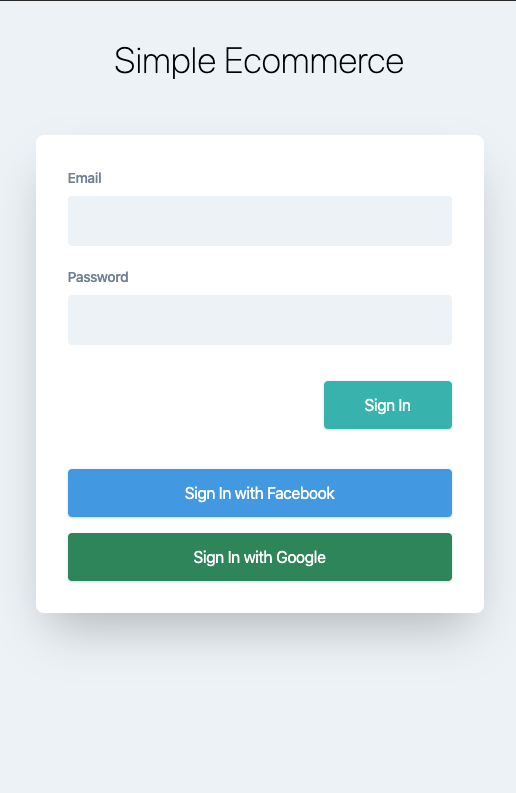
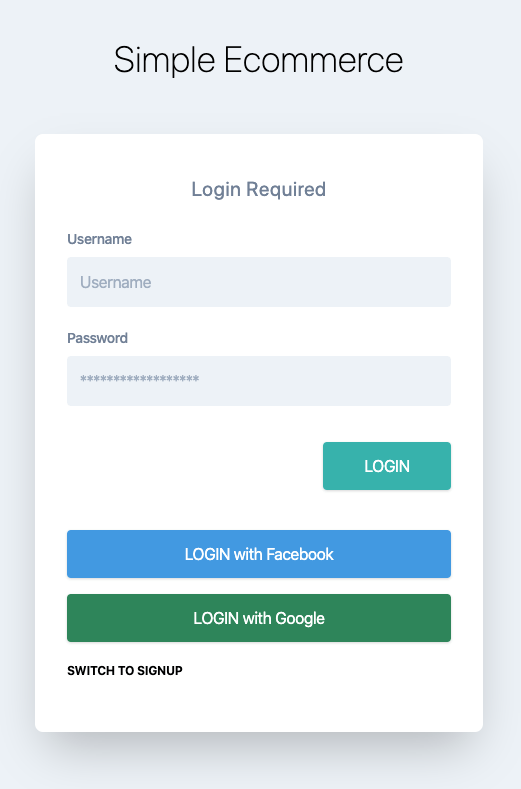
implement auth

diff --git a/src/users/components/LoginForm.js b/src/users/components/LoginForm.js
@@ -1,28 +1,146 @@
-import React from 'react';
+import React, { useState, useContext } from 'react';
+import {
+  VALIDATOR_MINLENGTH,
+  VALIDATOR_REQUIRE
+} from '../../shared/util/validators';
+import Input from '../../shared/components/FormElements/Input';
+import ErrorModal from '../../shared/components/UIElements/ErrorModal';
+import LoadingSpinner from '../../shared/components/UIElements/LoadingSpinner';
+import { useForm } from '../../shared/hooks/form-hook';
+import { useHttpClient } from '../../shared/hooks/http-hook';
+import { AuthContext } from '../../shared/context/auth-context';
+
+const DUMMY_USER = {
+  id: 'anas1234',
+  password: 'anas1234'
+}
 
 const LoginForm = () => {
+  const auth = useContext(AuthContext);
+  const [isLoginMode, setIsLoginMode] = useState(true);
+  const { isLoading, error, clearError } = useHttpClient();
+
+  const [formState, inputHandler, setFormData] = useForm({
+      username: {
+        value: '',
+        isValid: false
+      },
+      password: {
+        value: '',
+        isValid: false
+      }
+    },
+    false
+  );
+
+  const switchModeHandler = () => {
+    if (!isLoginMode) {
+      setFormData({
+          ...formState.inputs,
+          name: undefined
+        },
+        formState.inputs.username.isValid && formState.inputs.password.isValid
+      );
+    } else {
+      setFormData({
+          ...formState.inputs,
+          name: {
+            value: '',
+            isValid: false
+          }
+        },
+        false
+      );
+    }
+    setIsLoginMode(prevMode => !prevMode);
+  };
+
+  const authSubmitHandler = async event => {
+    event.preventDefault();
+
+    if (isLoginMode) {
+      try {
+        auth.login(DUMMY_USER.id);
+      } catch (err) {}
+    } else {
+      try {
+        auth.login(DUMMY_USER.id);
+      } catch (err) {}
+    }
+  };
+
   return (
-    <div className="bg-white rounded-lg overflow-hidden shadow-2xl">
+    <React.Fragment>
+      <ErrorModal error={error} onClear={clearError} />
+      <div className="bg-white rounded-lg overflow-hidden shadow-2xl">
+        {isLoading && <LoadingSpinner asOverlay />}
         <div className="p-8">
-            <form method="POST" className="" action="#" onSubmit="return false;">
+            <form method="POST" onSubmit={authSubmitHandler}>
+              <h2 className="py-2 mb-4 text-center text-gray-600 text-xl">Login Required</h2>
+              {!isLoginMode && (
                 <div className="mb-5">
-                    <label htmlFor="email" className="block mb-2 text-sm font-medium text-gray-600">Email</label>
-
-                    <input type="text" name="email" className="block w-full p-3 rounded bg-gray-200 border border-transparent focus:outline-none" />
+                  <label htmlFor="email" className="block mb-2 text-sm font-medium text-gray-600">Your Name</label>
+                  <Input
+                    element="input"
+                    id="name"
+                    type="text"
+                    label="Your Name"
+                    placeholder="Name"
+                    className="block w-full p-3 rounded bg-gray-200 border border-transparent focus:outline-none"
+                    validators={[VALIDATOR_REQUIRE()]}
+                    errorText="Please enter a name."
+                    onInput={inputHandler}
+                  />
                 </div>
+              )}
+              <div className="mb-5">
+                <label htmlFor="email" className="block mb-2 text-sm font-medium text-gray-600">Username</label>
+                <Input
+                  element="input"
+                  id="username"
+                  type="username"
+                  label="Username"
+                  placeholder="Username"
+                  className="block w-full p-3 rounded bg-gray-200 border border-transparent focus:outline-none"
+                  validators={[VALIDATOR_MINLENGTH(5)]}
+                  errorText="Please enter a valid Username, at least 5 characters."
+                  onInput={inputHandler}
+                />
+              </div>
 
-                <div className="mb-5">
-                    <label htmlFor="password" className="block mb-2 text-sm font-medium text-gray-600">Password</label>
+              <div className="mb-5">
+                <label htmlFor="password" className="block mb-2 text-sm font-medium text-gray-600">Password</label>
 
-                    <input type="text" name="password" className="block w-full p-3 rounded bg-gray-200 border border-transparent focus:outline-none" />
-                </div>
+                <Input
+                  element="input"
+                  id="password"
+                  type="password"
+                  label="Password"
+                  placeholder="******************"
+                  className="block w-full p-3 rounded bg-gray-200 border border-transparent focus:outline-none"
+                  validators={[VALIDATOR_MINLENGTH(6)]}
+                  errorText="Please enter a valid password, at least 5 characters."
+                  onInput={inputHandler}
+                />
+              </div>
 
-                <button className="w-1/3 float-right p-3 mt-4 bg-teal-500 text-white rounded shadow my-6">Sign In</button>
-                <button className="w-full p-3 mt-4 bg-blue-500 text-white rounded shadow">Sign In with Facebook</button>
-                <button className="w-full p-3 mt-4 bg-green-700 text-white rounded shadow">Sign In with Google</button>
+              <button
+                className="w-1/3 float-right p-3 mt-4 bg-teal-500 text-white rounded shadow my-6"
+                disabled={!formState.isValid}
+              >{isLoginMode ? 'LOGIN' : 'SIGNUP'}</button>
+              <button className="w-full p-3 mt-4 bg-blue-500 text-white rounded shadow">{isLoginMode ? 'LOGIN' : 'SIGNUP'} with Facebook</button>
+              <button className="w-full p-3 mt-4 bg-green-700 text-white rounded shadow">{isLoginMode ? 'LOGIN' : 'SIGNUP'} with Google</button>
             </form>
+            <button
+              className="font-bold my-3 py-2 text-xs"
+              onClick={switchModeHandler}>
+              SWITCH TO {isLoginMode ? 'SIGNUP' : 'LOGIN'}
+            </button>
         </div>
-    </div>
+      </div>
+    </React.Fragment>
+
+
   )
 }
 

diff --git a/src/App.js b/src/App.js
@@ -1,38 +1,78 @@
-import React from 'react';
+import React, { useState, useCallback } from 'react';
 import { BrowserRouter as Router, Route, Redirect, Switch } from 'react-router-dom';
 
-import Home from './products/pages/Home';
 import Products from './products/pages/Products';
 import Product from './products/pages/Product';
 import Profile from './users/pages/Profile.js';
+import Auth from './users/pages/Auth';
+import { AuthContext } from './shared/context/auth-context';
 import Login from './users/pages/Login.js';
 
 
 const App = () => {
+  const [isLoggedIn, setIsLoggedIn] = useState(false);
+  const [userId, setUserId] = useState(false);
+
+
+  const login = useCallback(uid => {
+    setIsLoggedIn(true);
+    setUserId(uid);
+  }, []);
+
+  const logout = useCallback(() => {
+    setIsLoggedIn(false);
+    setUserId(null);
+  }, []);
+
+  let routes;
+
+  if (isLoggedIn) {
+    routes = (
+      <Router>
+        <Switch>
+          <Route path="/" exact>
+            <Products/>
+          </Route>
+          <Route path="/product/:productId" exact>
+            <Product/>
+          </Route>
+          <Route path="/profile" exact>
+            <Profile/>
+          </Route>
+          <Route path="/profile/add/:productId" exact>
+            <Profile/>
+          </Route>
+          <Redirect to ="/" />
+        </Switch>
+      </Router>
+    );
+  } else {
+    routes = (
+      <Router>
+        <Switch>
+          <Route path="/product/:productId" exact>
+            <Product/>
+          </Route>
+          <Route path="/login" exact>
+            <Login/>
+          </Route>
+          <Route path="/auth" exact>
+            <Auth/>
+          </Route>
+          <Redirect to ="/auth" />
+        </Switch>
+      </Router>
+    )
+  }
+
   return (
+    <AuthContext.Provider
+      value={{ isLoggedIn: isLoggedIn, login: login, logout: logout, userId: userId }}
+    >
     <Router>
-      <Switch>
-        <Route path="/" exact>
-          <Home/>
-        </Route>
-        <Route path="/products" exact>
-          <Products/>
-        </Route>
-        <Route path="/product/:productId" exact>
-          <Product/>
-        </Route>
-        <Route path="/login" exact>
-          <Login/>
-        </Route>
-        <Route path="/profile" exact>
-          <Profile/>
-        </Route>
-        <Route path="/profile/add/:productId" exact>
-          <Profile/>
-        </Route>
-        <Redirect to ="/" />
-      </Switch>
+      {routes}
     </Router>
+    </AuthContext.Provider>
   )
 }
 

diff --git a/src/shared/components/Navigation/Navbar.js b/src/shared/components/Navigation/Navbar.js
@@ -1,6 +1,7 @@
-import React, { useState } from 'react';
+import React, { useState, useContext } from 'react';
 import { useHistory } from "react-router-dom";
 import { library } from "@fortawesome/fontawesome-svg-core";
+import { AuthContext } from '../../context/auth-context';
 import {
   faHeart,
   faAngleLeft
@@ -16,7 +17,9 @@ library.add(
 );
 
 const Navbar = () => {
+  const auth = useContext(AuthContext);
   let history = useHistory();
+  console.log(auth.isLoggedIn)
   const [mockData, setMockData] = useState(jsonData);
   const [isDrawerOpen, setDrawerIsOpen] = useState(false)
 
@@ -52,6 +55,9 @@ const Navbar = () => {
             placeholder="Search by name..."
             onChange={searchData && openDrawerHandler}
           />
+          <button className="m-auto px-1 text-right text-sm w-1/6" onClick={auth.logout}>
+            Log Out
+          </button>
         </div>
       </nav>
       <PageDrawer show={isDrawerOpen} items={mockData} />

diff --git a/src/users/pages/Auth.js b/src/users/pages/Auth.js
@@ -1,0 +1,16 @@
+import React from 'react';
+import LoginForm from '../components/LoginForm';
+
+
+const Auth = () => {
+  return (
+    <div className="container mx-auto p-8 flex">
+      <div className="max-w-md w-full mx-auto">
+        <h1 className="text-4xl text-center mb-12 font-thin">Simple Ecommerce</h1>
+        <LoginForm />
+      </div>
+    </div>
+  );
+}
+
+export default Auth;

diff --git a/src/shared/context/auth-context.js b/src/shared/context/auth-context.js
@@ -1,0 +1,8 @@
+import { createContext } from 'react';
+
+export const AuthContext = createContext({
+  isLoggedIn: false,
+  userId: null,
+  login: () => {},
+  logout: () => {}
+});
